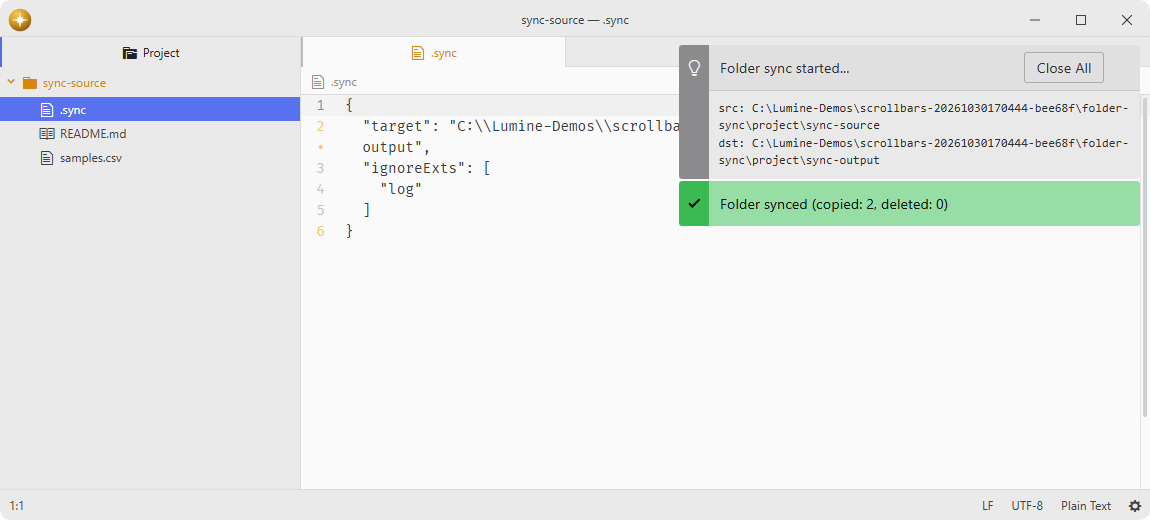
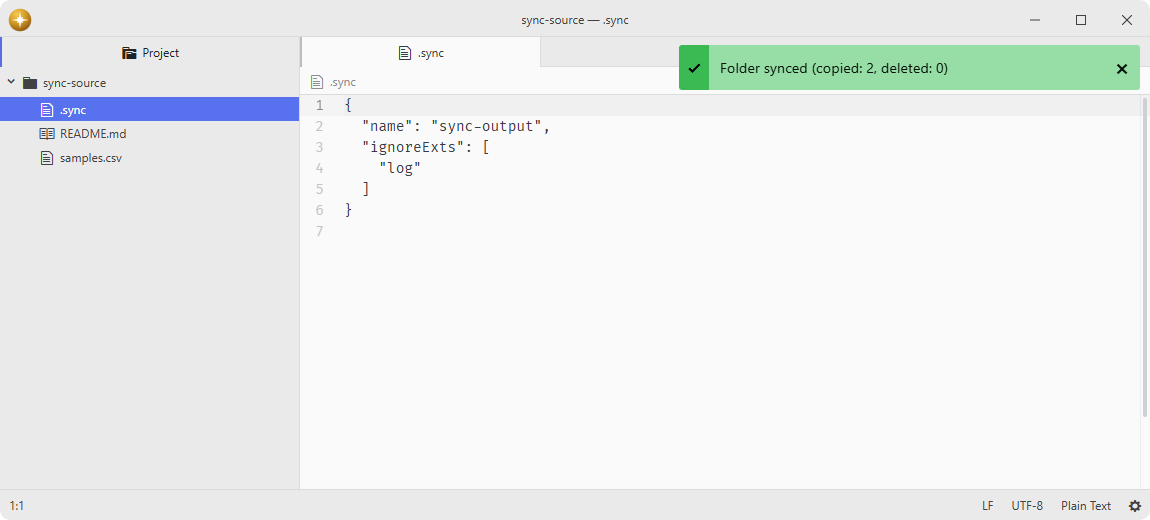
Keep absolute paths out of the Folder Sync demo

diff --git a/demo.js b/demo.js
@@ -5,12 +5,9 @@ module.exports = {
   viewport: { width: 1150, height: 520 },
   async before() {},
   async prepare(context) {
-    const { lumine, state, fixture, open } = context;
-    const fs = require("node:fs");
-    const config = JSON.parse(fs.readFileSync(fixture("sync-source/.sync"), "utf8"));
-    config.target = fixture("sync-output");
-    fs.mkdirSync(config.target, { recursive: true });
-    fs.writeFileSync(fixture("sync-source/.sync"), JSON.stringify(config, null, 2));
+    const { lumine, state, fixture, open, project } = context;
+    lumine.config.set("folder-sync.storagePath", project);
+    require("node:fs").mkdirSync(fixture("sync-output"), { recursive: true });
     state.editor = await open("sync-source/.sync");
     await lumine.project.setPaths([fixture("sync-source")]);
   },
@@ -22,20 +19,32 @@ module.exports = {
       timeout: 60000,
       allowNotifications: true,
       async run(context) {
-        const { lumine, state } = context;
-        {
-          lumine.commands.dispatch(state.editor.getElement(), "tree-view:reveal-active-file");
-          await new Promise((resolve) => setTimeout(resolve, 800));
-        }
-        {
-          await lumine.packages.getActivePackage("folder-sync").mainModule.run();
+        const { lumine, state, waitFor } = context;
+        const folderSync = lumine.packages.getActivePackage("folder-sync").mainModule;
+        lumine.commands.dispatch(state.editor.getElement(), "tree-view:reveal-active-file");
+        await waitFor(
+          () => folderSync.treeView?.selectedPaths()[0] === state.editor.getPath(),
+          "tree selection for the sync configuration",
+        );
+        await folderSync.run();
+        document.querySelector("lumine-notification.success")?.click();
+        for (const notice of document.querySelectorAll("lumine-notification.hint")) {
+          if (notice.querySelector(".message")?.textContent.trim() === "Folder sync started...") {
+            notice.click();
+            notice.querySelector(".close")?.click();
+          }
         }
       },
       ready(context) {
-        const { fixture } = context;
+        const { fixture, project } = context;
+        const visibleText = document.body.innerText;
         return Boolean(
-          require("fs").existsSync(fixture("sync-output/samples.csv")) &&
-          document.querySelector("lumine-notification")?.innerText.includes("sync"),
+          require("node:fs").existsSync(fixture("sync-output/samples.csv")) &&
+          document
+            .querySelector("lumine-notification.success")
+            ?.innerText.includes("Folder synced") &&
+          !visibleText.includes(project) &&
+          !/[a-z]:[\\/]/i.test(visibleText),
         );
       },
     },
